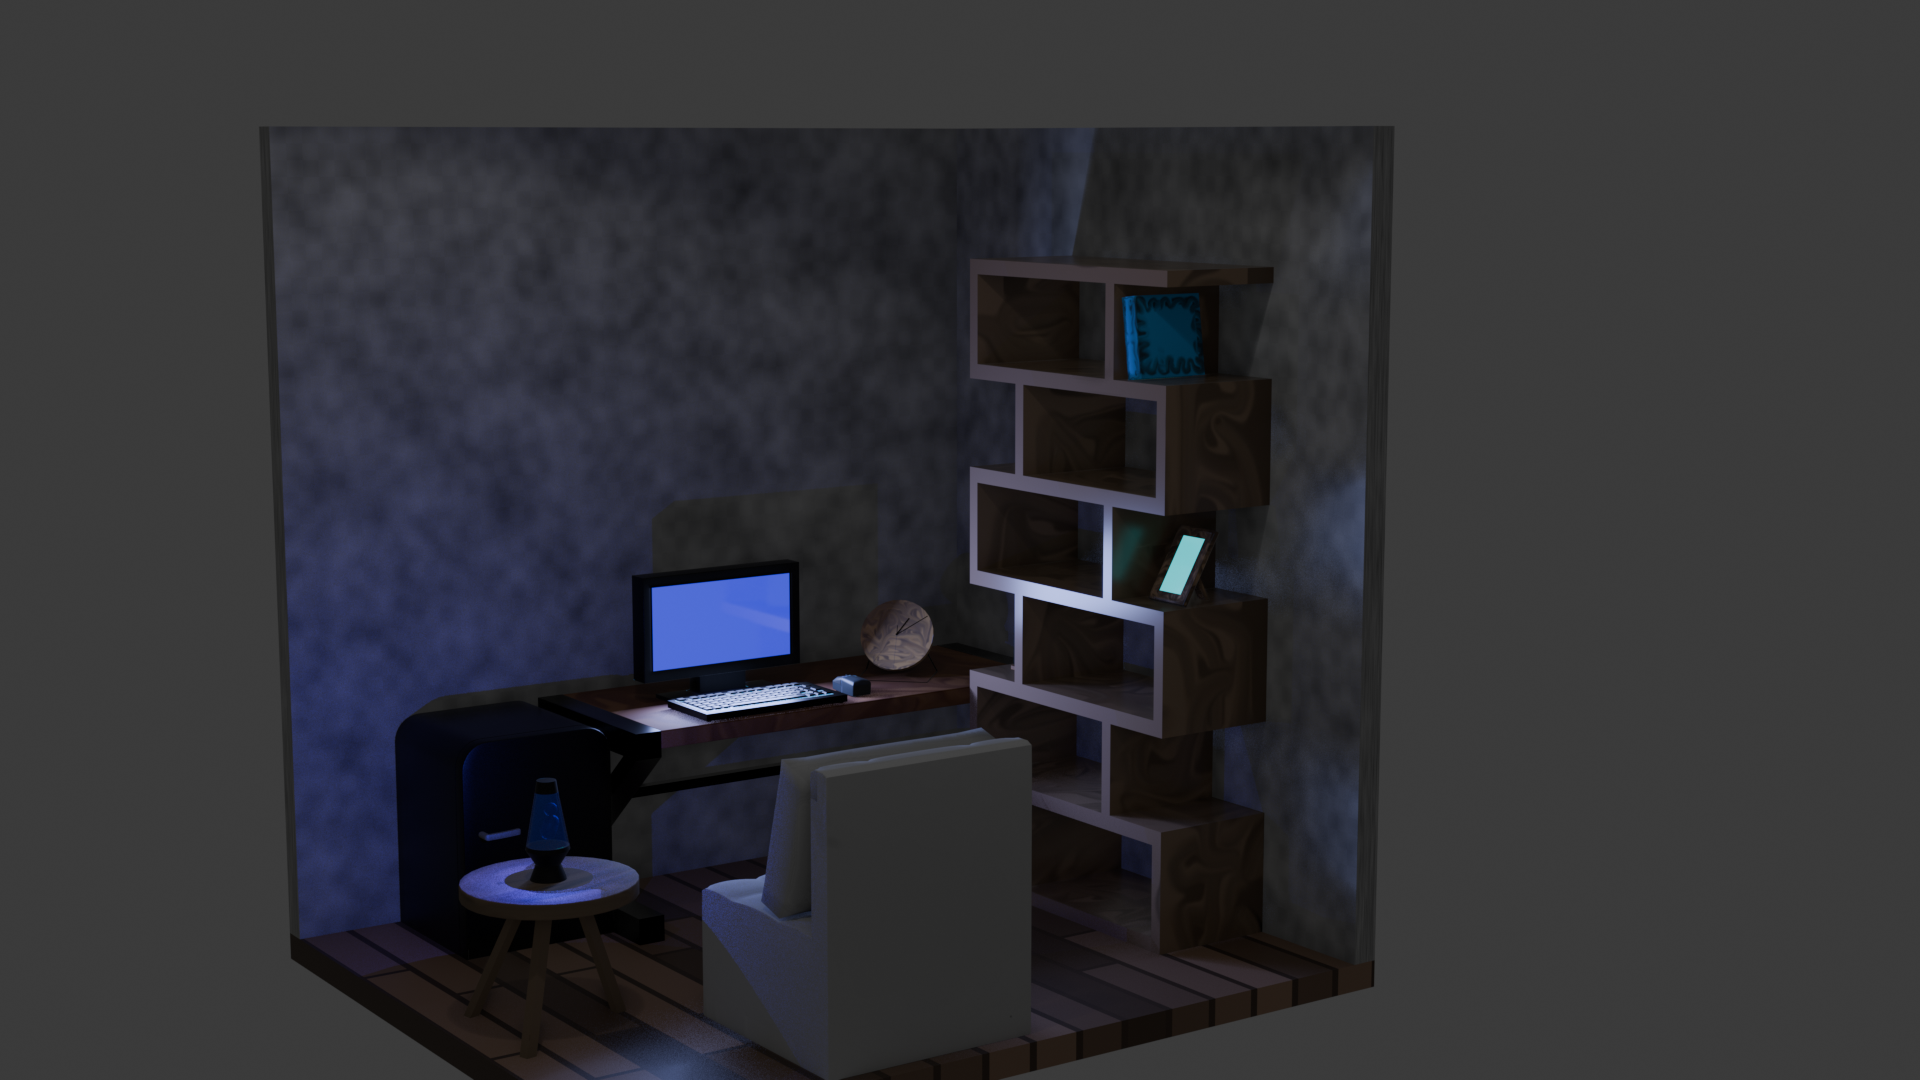
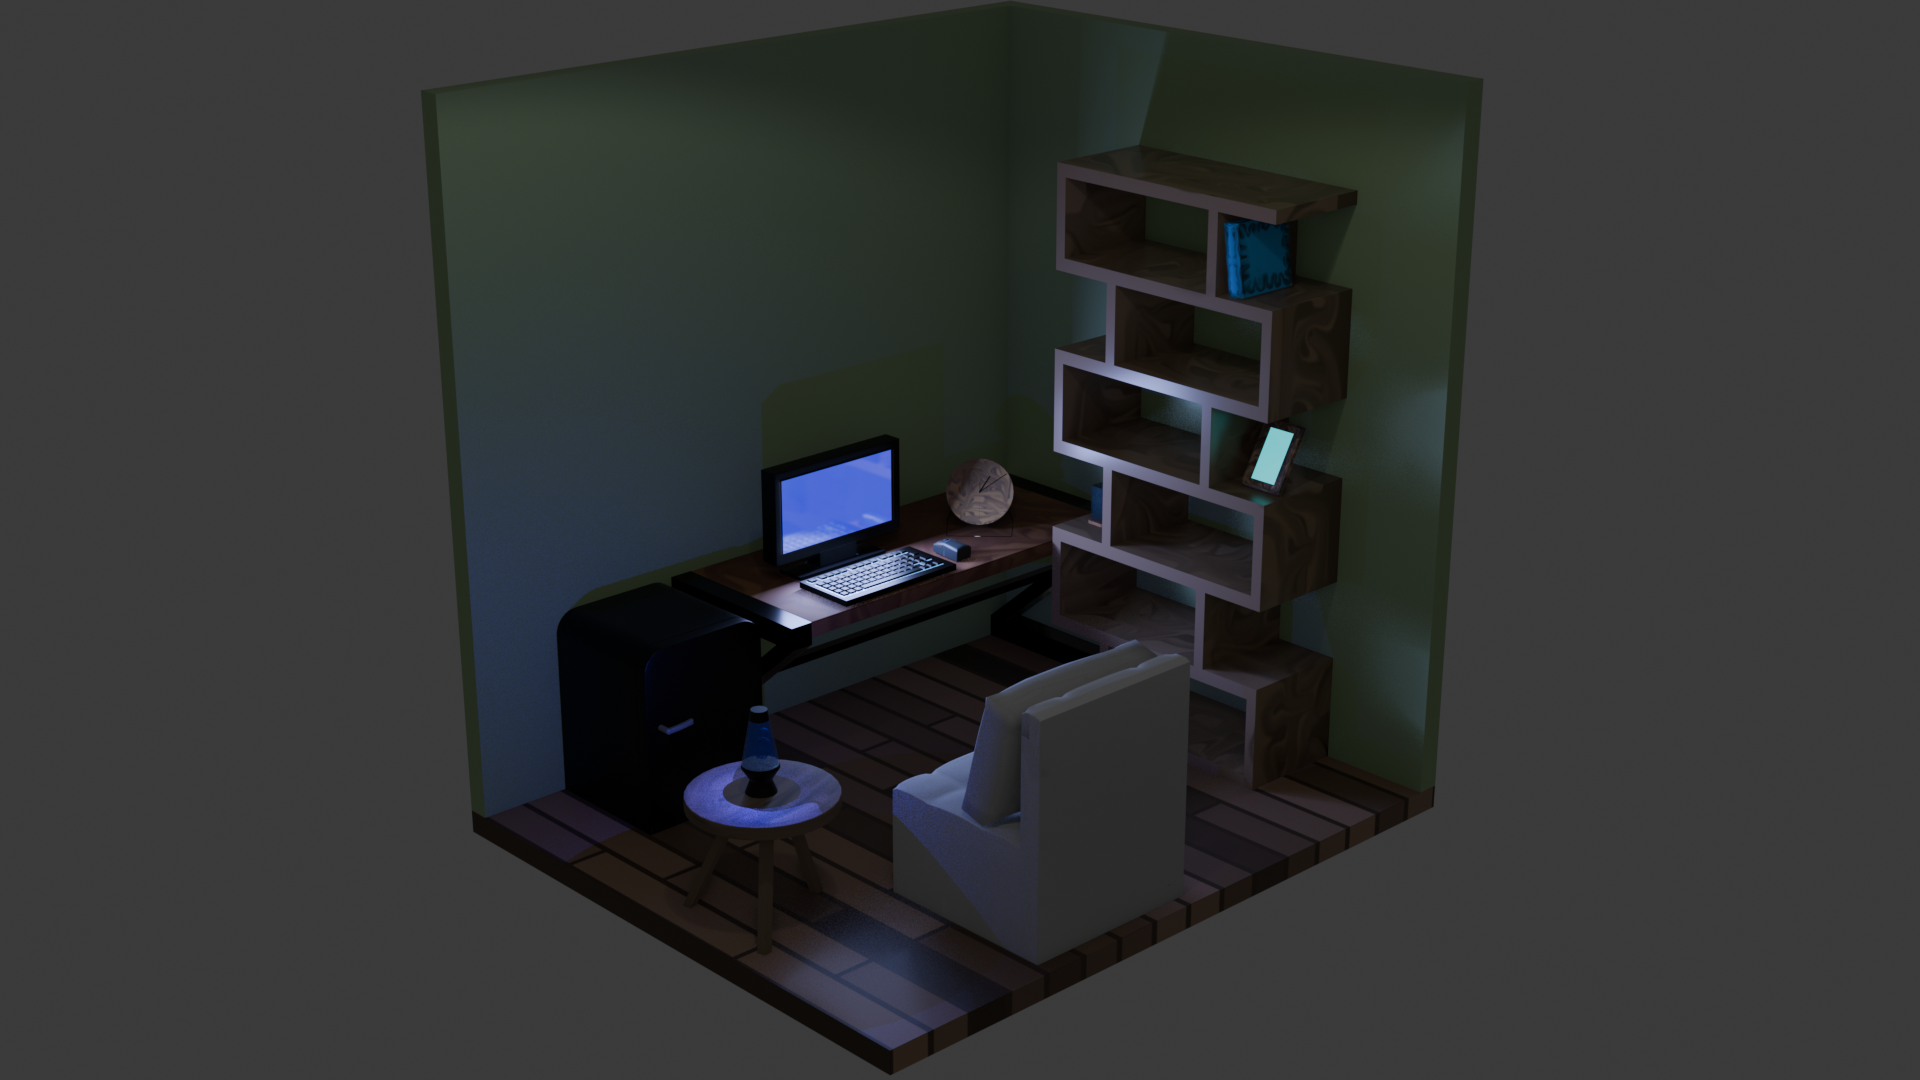
Arreglo ortografía y paleta colores.

Changed region(s): [[0.125, 0.0, 0.7812, 1.0]]

diff --git a/Pagina3.html b/Pagina3.html
@@ -27,32 +27,32 @@
       <div class="slider-wrapper">
         
         <div class="perfil slide active">
-          <img src="Imagenes/RenderHabitacion.png" alt="Perfil 1" />
+          <img src="Imagenes/RenderHabitacion.png" alt="Render Habitación completado" />
           <h3>Modelo Habitación</h3>
           <p>Rol: Modelador / Blender</p>
           <a href="https://sketchfab.com/3d-models/diorama-habitacion-ce01ed9e751c4479966fcfb2e2a267a4" target="_blank"><button>Ver en Sketchfab</button></a>
         </div>
         <div class="perfil slide">
-          <img src="Imagenes/PreRenderHabitacion.png" alt="Perfil 2" />
+          <img src="Imagenes/PreRenderHabitacion.png" alt="Modelos antes del render con materiales aleatorios" />
           <h3>Pre-Render Materiales aleatorios</h3>
           <p>Rol: Modelador / Blender</p>
           <a href="https://sketchfab.com/3d-models/diorama-habitacion-ce01ed9e751c4479966fcfb2e2a267a4" target="_blank"><button>Ver en Sketchfab</button></a>
         </div>
         <div class="perfil slide">
-          <img src="Imagenes/ObjetosHabitacion.png" alt="Perfil 3" />
+          <img src="Imagenes/ObjetosHabitacion.png" alt="Modelos fuera de posicion final" />
           <h3>Modelos Separados</h3>
           <p>Rol: Modelador / Blender</p>
           <a href="https://sketchfab.com/3d-models/diorama-habitacion-ce01ed9e751c4479966fcfb2e2a267a4" target="_blank"><button>Ver en Sketchfab</button></a>
         </div>
         <div class="perfil slide">
-          <img src="Imagenes/Referencia. posición, tipo y tamaño.png" alt="Perfil 4" />
+          <img src="Imagenes/Referencia. posición, tipo y tamaño.png" alt="Referencia ocupada para la creacion de los modelos" />
           <h3>MoodBoard</h3>
           <p>Rol: Modelador / Blender</p>
           <a href="https://sketchfab.com/3d-models/diorama-habitacion-ce01ed9e751c4479966fcfb2e2a267a4" target="_blank"><button>Ver en Sketchfab</button></a>
         </div>
 
       </div>
-      <button class="btn-flecha next" onclick="navegarProyectos('Habitación',-1)">&#10095;</button>
+      <button class="btn-flecha next" onclick="navegarProyectos('Habitación',1)">&#10095;</button>
 
     </section>
     <section id="Celeste"class="container slider-container">
@@ -62,32 +62,32 @@
       <div class="slider-wrapper">
         
         <div class="perfil slide active">
-          <img src="Imagenes/RenderCeleste.png" alt="Perfil 1" />
+          <img src="Imagenes/RenderCeleste.png" alt="Render final de un diorama representando una de las primeras escenas de Celeste" />
           <h3>Diorama Celeste</h3>
-          <p>Rol: Modelador y texturizado/ Blender</p>
+          <p>Rol: Modelador y texturizado / Blender</p>
           <a href="https://sketchfab.com/3d-models/dioramaceleste-db89a443d052495ebd5a76b8c746f52b" target="_blank"><button>Ver en Sketchfab</button></a>
         </div>
         <div class="perfil slide">
-          <img src="Imagenes/PreRenderCeleste.png" alt="Perfil 2" />
+          <img src="Imagenes/PreRenderCeleste.png" alt="Diorama antes del renderizado con materiales aleatorios" />
           <h3>Pre-Render Materiales aleatorios</h3>
-          <p>Rol: Modelador y texturizado/ Blender</p>
+          <p>Rol: Modelador y texturizado / Blender</p>
           <a href="https://sketchfab.com/3d-models/dioramaceleste-db89a443d052495ebd5a76b8c746f52b" target="_blank"><button>Ver en Sketchfab</button></a>
         </div>
         <div class="perfil slide">
-          <img src="Imagenes/ObjetosCeleste.png" alt="Perfil 3" />
+          <img src="Imagenes/ObjetosCeleste.png" alt="Imagen de los modelos separados" />
           <h3>Modelos Separados</h3>
-          <p>Rol: Modelador y texturizado/ Blender</p>
+          <p>Rol: Modelador y texturizado / Blender</p>
           <a href="https://sketchfab.com/3d-models/dioramaceleste-db89a443d052495ebd5a76b8c746f52b" target="_blank"><button>Ver en Sketchfab</button></a>
         </div>
         <div class="perfil slide">
-          <img src="Imagenes/MoodBoardCeleste.png" alt="Perfil 4" />
+          <img src="Imagenes/MoodBoardCeleste.png" alt="MoodBoard utilizada como base para la escena" />
           <h3>MoodBoard</h3>
-          <p>Rol: Modelador y texturizado/ Blender</p>
+          <p>Rol: Modelador y texturizado / Blender</p>
           <a href="https://sketchfab.com/3d-models/dioramaceleste-db89a443d052495ebd5a76b8c746f52b" target="_blank"><button>Ver en Sketchfab</button></a>
         </div>
 
       </div>
-      <button class="btn-flecha next" onclick="navegarProyectos('Celeste',-1)">&#10095;</button>
+      <button class="btn-flecha next" onclick="navegarProyectos('Celeste',1)">&#10095;</button>
 
     </section>
     <section id="Laberinto"class="container slider-container">
@@ -97,36 +97,36 @@
       <div class="slider-wrapper">
         
         <div class="perfil slide active">
-          <img src="Imagenes/LaberintoImagen.png" alt="Perfil 1" />
+          <img src="Imagenes/LaberintoImagen.png" alt="Imagen de laberinto ya generado" />
           <h3>Generador aleatorio de laberintos</h3>
           <p>Rol: Modelador 3D y programador</p>
           <a href="https://felipeosvaldoacunacornejo.github.io/GeneradorAleatorioDeLaberintos/" target="_blank"><button>Probar proyecto</button></a>
-          <a href="https://github.com/FelipeOsvaldoAcunaCornejo/GeneradorAleatorioDeLaberintos" target="_blank"><button>Ver Codigo</button></a>
+          <a href="https://github.com/FelipeOsvaldoAcunaCornejo/GeneradorAleatorioDeLaberintos" target="_blank"><button>Ver Código</button></a>
         </div>
         <div class="perfil slide">
-          <img src="Imagenes/ModelosLaberintoOcupados.png" alt="Perfil 2" />
+          <img src="Imagenes/ModelosLaberintoOcupados.png" alt="Modelos ocupados como base de suelo y paredes para el laberinto" />
           <h3>modelos Creados</h3>
           <p>Rol: Modelador 3D y programador</p>
           <a href="https://felipeosvaldoacunacornejo.github.io/GeneradorAleatorioDeLaberintos/" target="_blank"><button>Probar proyecto</button></a>
-          <a href="https://github.com/FelipeOsvaldoAcunaCornejo/GeneradorAleatorioDeLaberintos" target="_blank"><button>Ver Codigo</button></a>
+          <a href="https://github.com/FelipeOsvaldoAcunaCornejo/GeneradorAleatorioDeLaberintos" target="_blank"><button>Ver Código</button></a>
         </div>
         <div class="perfil slide">
-          <img src="Imagenes/LaberintoCerca.png" alt="Perfil 3" />
+          <img src="Imagenes/LaberintoCerca.png" alt="Laberinto desde una camara que muestra mejor como esta generado de cerca" />
           <h3>Laberinto de cerca</h3>
           <p>Rol: Modelador 3D y programador</p>
           <a href="https://felipeosvaldoacunacornejo.github.io/GeneradorAleatorioDeLaberintos/" target="_blank"><button>Probar proyecto</button></a>
-          <a href="https://github.com/FelipeOsvaldoAcunaCornejo/GeneradorAleatorioDeLaberintos" target="_blank"><button>Ver Codigo</button></a>
+          <a href="https://github.com/FelipeOsvaldoAcunaCornejo/GeneradorAleatorioDeLaberintos" target="_blank"><button>Ver Código</button></a>
         </div>
         <div class="perfil slide">
-          <img src="Imagenes/ZonaTrabajo.png" alt="Perfil 4" />
+          <img src="Imagenes/ZonaTrabajo.png" alt="Zona de trabajo organizada para trabajo en el proyecto" />
           <h3>Zona de trabajo en Unity</h3>
           <p>Rol: Modelador 3D y programador</p>
           <a href="https://felipeosvaldoacunacornejo.github.io/GeneradorAleatorioDeLaberintos/" target="_blank"><button>Probar proyecto</button></a>
-          <a href="https://github.com/FelipeOsvaldoAcunaCornejo/GeneradorAleatorioDeLaberintos" target="_blank"><button>Ver Codigo</button></a>
+          <a href="https://github.com/FelipeOsvaldoAcunaCornejo/GeneradorAleatorioDeLaberintos" target="_blank"><button>Ver Código</button></a>
         </div>
 
       </div>
-      <button class="btn-flecha next" onclick="navegarProyectos('Laberinto',-1)">&#10095;</button>
+      <button class="btn-flecha next" onclick="navegarProyectos('Laberinto',1)">&#10095;</button>
 
     </section>
   </main>

diff --git a/style.css b/style.css
@@ -3,11 +3,15 @@
   padding: 0;
   box-sizing: border-box;
 }
+body
+{
+  background-color: #f7ebec;
+}
 
 header {
   width: 100%;
   padding: 20px;
-  background: rgb(140, 6, 177);
+  background: #59656f;
   color: rgb(255, 255, 255);
   font-weight: bold;
   display: flex;
@@ -27,7 +31,7 @@ header {
 
 
 .perfil {
- background: #d3f66b;
+ background: #59656f;
  border-radius: 15px;
  box-shadow: 10px 40px 12px rgba(145, 19, 19, 0.221);
  padding: 20px;
@@ -38,7 +42,7 @@ header {
 
 .perfil:hover {
  transform:Rotate(2deg) translateX(10px);
- box-shadow: 0 6px 18px rgb(10, 0, 86);
+ box-shadow: 0 6px 18px rgba(145, 19, 19, 0.221);
 }
 .perfil img {
  width: max-content;
@@ -50,8 +54,8 @@ header {
 
 .perfil button {
   margin-top: 10px;
-  background: #fdff86;
-  color: rgb(0, 0, 0);
+  background: #1d1e2c;
+  color: rgb(255, 255, 255);
   border: none;
   border-radius: 8px;
   padding: 10px 20px;
@@ -60,7 +64,7 @@ header {
 }
 
 .perfil button:hover {
-  box-shadow: 0 0 36px #B18C06;
+  box-shadow: 0 0 36px #ac9fbb;
 }
 
 
@@ -99,8 +103,8 @@ header {
   padding: 8px 16px;
   font-size: 16px;
   margin-top: 10px;
-  background: #fdff86;
-  color: rgb(0, 0, 0);
+  background: #1d1e2c;
+  color: rgb(255, 255, 255);
   border: none;
   border-radius: 8px;
   padding: 10px 20px;
@@ -109,7 +113,7 @@ header {
 }
 .botones button:hover
 {
-  box-shadow: 0 0 36px #B18C06;
+  box-shadow: 0 0 36px #ac9fbb;
 }
 
 .imagenes-inferiores {
@@ -169,7 +173,7 @@ section {
   background: white;
   border-radius: 2rem;
   border: rgb(53, 53, 53) 0.1rem solid;
-  border-color: rgb(163, 163, 163);
+  border-color: #ddbdd5;
   text-align: center;
 }
 
@@ -193,8 +197,8 @@ section {
   padding: 4px 8px;
   font-size: 16px;
   margin-top: 10px;
-  background: #fdff86;
-  color: rgb(0, 0, 0);
+  background: #1d1e2c;
+  color: rgb(255, 255, 255);
   border: none;
   border-radius: 8px;
   padding: 10px 20px;
@@ -203,7 +207,7 @@ section {
 }
 .botonesPaginas button:hover
 {
-  box-shadow: 0 0 36px #B18C06;
+  box-shadow: 0 0 36px #ac9fbb;
 }
 .slider-container 
 {
@@ -237,9 +241,9 @@ section {
   position: absolute;
   top: 50%;
   transform: translateY(-50%);
-  background-color: #fdff86;
-  color: #000000;
-  border: 2px solid #B18C06;
+  background-color: #1d1e2c;
+  color: rgb(255, 255, 255);
+  border: 2px solid #ac9fbb;
   font-size: 1.5rem;
   font-weight: bold;
   cursor: pointer;
@@ -247,7 +251,7 @@ section {
   border-radius: 50%;
   transition: all 0.3s ease;
   user-select: none;
-  box-shadow: 0 0 10px rgba(140, 6, 177, 0.4);
+  box-shadow: 0 0 10px rgba(89,101,111, 0.4);
   z-index: 10;        
 }
 .btn-flecha.prev 
@@ -260,7 +264,7 @@ section {
 }
 .btn-flecha:hover 
 {
-  box-shadow: 0 0 36px #B18C06;
+  box-shadow: 0 0 36px #ac9fbb;
   transform: translateY(-50%) scale(1.1);
 }
 @keyframes fadeEffect 

diff --git a/index.html b/index.html
@@ -37,7 +37,7 @@
       </div>
       <div class="imagenes-inferiores">
         <a href="https://github.com/FelipeOsvaldoAcunaCornejo" target="_blank"> <img src="Imagenes/GithubLogo.png" alt="Github"> </a>
-        <a href="https://www.linkedin.com/in/felipe-osvaldo-acu%C3%B1a-cornejo-428b7937a/" target="_blank"> <img src="Imagenes/LinkedinLogo.png" alt="Linkedin"> </a>
+        <a href="https://www.linkedin.com/in/felipe-osvaldo-acuna-cornejo-428b7937a/" target="_blank"> <img src="Imagenes/LinkedinLogo.png" alt="Linkedin"> </a>
 
       </div>
     </div>
@@ -106,10 +106,19 @@
                 <h3>Git</h3>
               </div>
             </article>
+          </div>
+          <h2 class="experience-sub-title"> Idiomas </h2>
+          <div class="article-container">
             <article>
               <img src="Imagenes/InglesLogo.png" alt="English icon" class="icon" />
               <div>
-                <h3>Ingles C1</h3>
+                <h3>Inglés C1</h3>
+              </div>
+            </article>
+            <article>
+              <img src="Imagenes/Españollogo.png" alt="Spanish icon" class="icon" />
+              <div>
+                <h3>Español nativo</h3>
               </div>
             </article>
           </div>

diff --git a/Pagina4.html b/Pagina4.html
@@ -19,11 +19,10 @@
     </nav>
   </header>
   <section id="Contactos">
-    <h1 class="title">Formas de contacto</h1>
     <div class="experience-details-container">
       <div class="about-containers">
         <div class="details-container">
-          <h2 class="experience-sub-title">Correo</h2>
+          <h1 class="title">Formas de contacto</h1>
           <div class="article-container">
             <article>
               <div>
@@ -31,11 +30,10 @@
               </div>
             </article>
           </div>
-          <h2 class="=experience-sub-title">Telefono</h2>
           <div class="article-container">
             <article>
               <div>
-                <h3><img src="Imagenes/TelefonoLogo.png" alt="Phone icon" class="icon" />+56936473488</h3>
+                <h3><img src="Imagenes/LinkedinLogo.png" alt="linkedin icon" class="icon" /><a href="https://www.linkedin.com/in/felipe-osvaldo-acuna-cornejo-428b7937a/" target="_blank"> Linkedin Felipe Acuña </a></h3>
               </div>
             </article>
           </div>

diff --git a/Pagina2.html b/Pagina2.html
@@ -24,9 +24,10 @@
     </div>
     <div class="Derecha">
       <div class="parrafos">
-        <p>Soy felipe acuña, estudiante de ingenieria en realidad virtual y juegos digitales</p>
-        <p>Mis principales especialidades son en el area de la programacion y el modelado 3D </p>
-        <p>Mas especificamente programacion de proceduralidad y modelos 3D mid-poly</p>
+        <p>Soy felipe acuña, estudiante de ingeniería en realidad virtual y juegos digitales</p>
+        <p>Mis principales especialidades son en el área de la programación y el modelado 3D </p>
+        <p>Más especificamente programacion de proceduralidad y modelos 3D mid-poly</p>
+        <p>Busco proyectos que me desafíen y ayuden ha aprender y mejorar en nuevas areas</p>
       </div>
     </div>
   </div>
